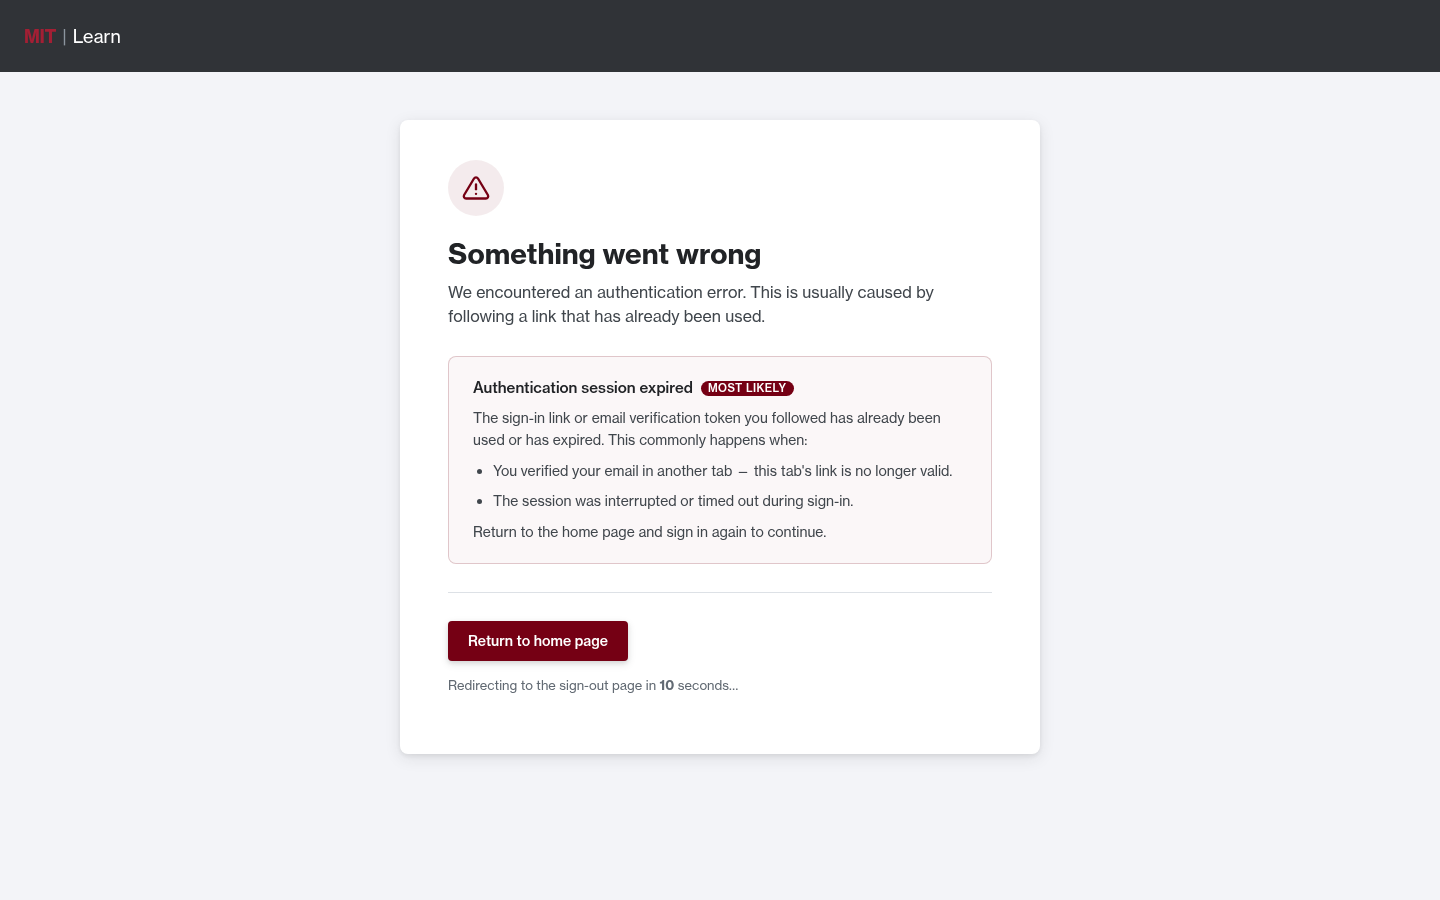
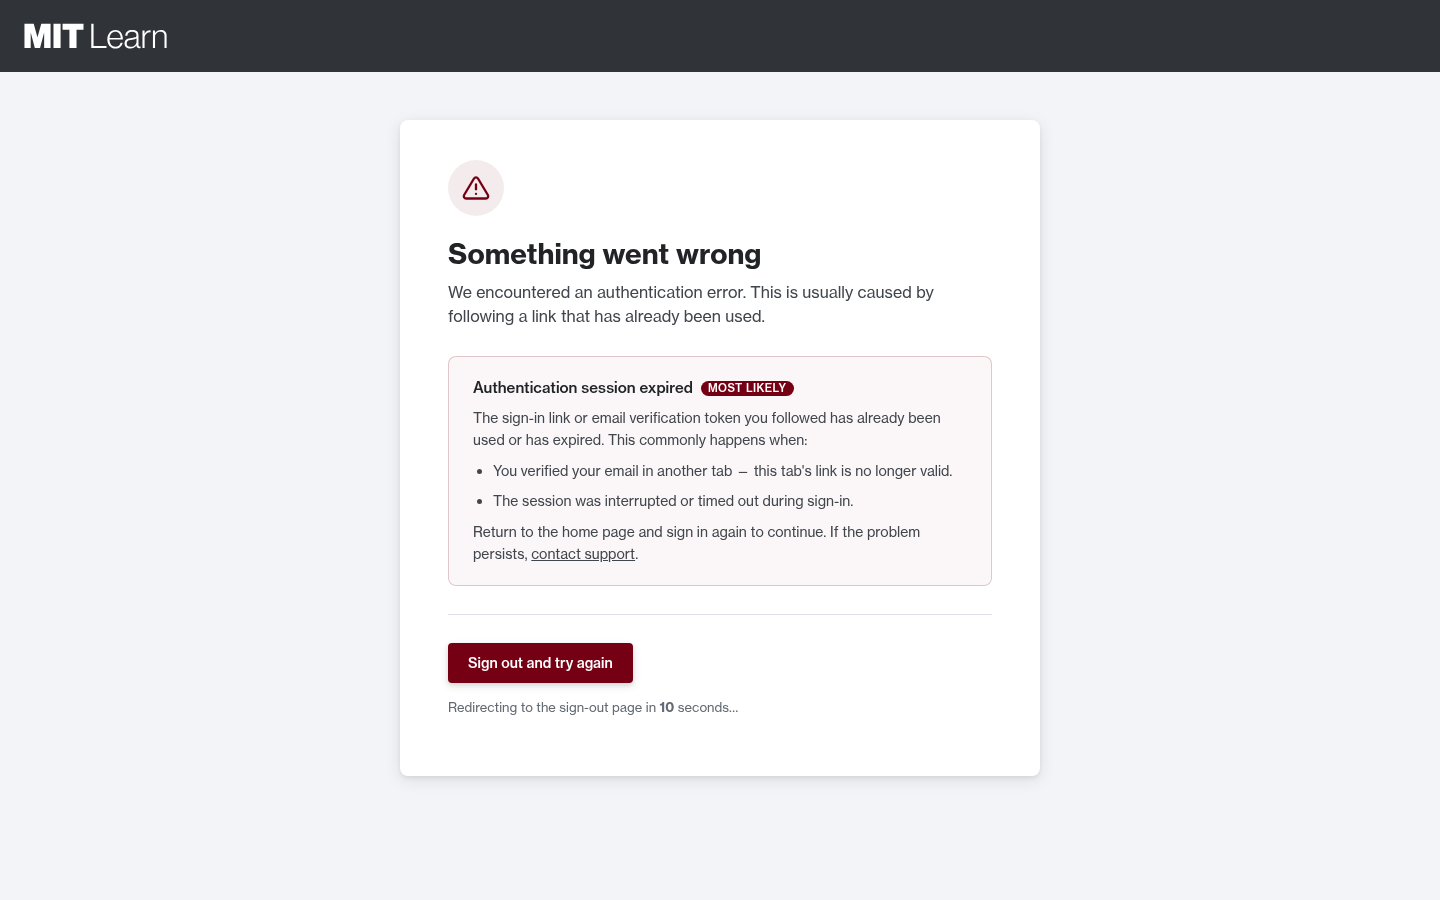
fix: address second round of PR review feedback
- Replace text wordmark with actual MIT Learn SVG logo (from
  mitodl/mit-learn frontends/main/public/images/mit-learn-logo.svg)
- Add 'contact support' link (support.learn.mit.edu) after auth
  scenario instructions
- Apply reviewer suggestion: split last header-scenario list item
  into 'Try a different browser' + 'contact us' link
- Fix button/countdown mismatch: auth scenario button now says
  'Sign out and try again' and points to /logout, matching the
  countdown redirect target; header scenario button remains
  'Return to home page' pointing to /

diff --git a/src/ol_infrastructure/infrastructure/aws/eks/error_pages/gateway_error.html b/src/ol_infrastructure/infrastructure/aws/eks/error_pages/gateway_error.html
@@ -69,28 +69,14 @@
         padding: 0 24px;
       }
 
-      /* Wordmark: "MIT" in bold red + "Learn" in regular white */
-      .nav-wordmark {
+      .nav-logo {
         display: flex;
-        align-items: baseline;
-        gap: 6px;
-        color: var(--color-white);
-        font-size: 1.125rem;   /* 18px */
-        line-height: 1;
-        user-select: none;
+        align-items: center;
+        line-height: 0;
       }
-      .nav-wordmark-mit {
-        font-weight: 700;
-        color: var(--color-red);
-        letter-spacing: -0.02em;
-      }
-      .nav-wordmark-pipe {
-        color: var(--color-silver-gray);
-        font-weight: 300;
-      }
-      .nav-wordmark-learn {
-        font-weight: 400;
-        color: var(--color-white);
+      .nav-logo svg {
+        height: 26px;
+        width: auto;
       }
 
       /* ── Page layout ────────────────────────────────────────────────────── */
@@ -259,10 +245,10 @@
   <body>
     <!-- ── Navigation bar ──────────────────────────────────────────────── -->
     <header class="nav" role="banner">
-      <a href="/" class="nav-wordmark" aria-label="MIT Learn — home">
-        <span class="nav-wordmark-mit">MIT</span>
-        <span class="nav-wordmark-pipe">|</span>
-        <span class="nav-wordmark-learn">Learn</span>
+      <a href="/" class="nav-logo" aria-label="MIT Learn — home">
+        <svg width="143" height="26" viewBox="0 0 143 26" fill="none" xmlns="http://www.w3.org/2000/svg" aria-hidden="true">
+          <path d="M0.462 25V0.689999H9.71L13.45 14.29H13.518L17.258 0.689999H26.574V25H20.148V9.768H20.08L16.034 25H10.832L6.786 9.768H6.718V25H0.462ZM29.4815 25V0.689999H36.5875V25H29.4815ZM38.5569 6.742V0.689999H59.5009V6.742H52.5309V25H45.4249V6.742H38.5569ZM67.2834 25V0.689999H69.5614V22.892H82.5154V25H67.2834ZM91.5167 25.442C88.9553 25.442 86.9493 24.592 85.4987 22.892C84.048 21.1693 83.3227 18.948 83.3227 16.228C83.3227 13.5533 84.0593 11.3547 85.5327 9.632C87.006 7.88667 88.944 7.014 91.3467 7.014C92.7067 7.014 93.8853 7.27467 94.8827 7.796C95.9027 8.31733 96.696 9.04267 97.2627 9.972C97.8293 10.9013 98.2373 11.9213 98.4867 13.032C98.7587 14.12 98.8947 15.31 98.8947 16.602H85.4987C85.544 18.6873 86.0767 20.3873 87.0967 21.702C88.1167 22.994 89.59 23.64 91.5167 23.64C94.1913 23.64 95.9027 22.3253 96.6507 19.696H98.6907C98.3053 21.464 97.4893 22.8693 96.2427 23.912C95.0187 24.932 93.4433 25.442 91.5167 25.442ZM85.5327 14.936H96.6847C96.6393 13.1 96.1633 11.6153 95.2567 10.482C94.3727 9.326 93.0693 8.748 91.3467 8.748C89.6467 8.748 88.298 9.31467 87.3007 10.448C86.326 11.5813 85.7367 13.0773 85.5327 14.936ZM106.266 25.408C104.566 25.408 103.184 24.9887 102.118 24.15C101.053 23.3113 100.52 22.0987 100.52 20.512C100.52 19.5147 100.69 18.676 101.03 17.996C101.393 17.2933 101.937 16.7493 102.662 16.364C103.41 15.9787 104.158 15.6953 104.906 15.514C105.677 15.31 106.629 15.14 107.762 15.004C109.666 14.7773 110.924 14.5393 111.536 14.29C112.171 14.018 112.488 13.4627 112.488 12.624V12.284C112.488 9.92667 111.083 8.748 108.272 8.748C105.144 8.748 103.501 10.0513 103.342 12.658H101.268C101.382 10.9127 102.028 9.54133 103.206 8.544C104.385 7.54667 106.074 7.048 108.272 7.048C112.42 7.048 114.494 8.86133 114.494 12.488V22.042C114.494 23.0167 114.88 23.5267 115.65 23.572C115.764 23.572 116.024 23.5267 116.432 23.436H116.534V24.966C116.126 25.1473 115.65 25.238 115.106 25.238C113.474 25.238 112.613 24.4107 112.522 22.756V22.382H112.42C110.992 24.3993 108.941 25.408 106.266 25.408ZM106.64 23.708C108.454 23.708 109.882 23.198 110.924 22.178C111.99 21.1353 112.522 19.9567 112.522 18.642V15.48C111.661 15.956 110.142 16.3413 107.966 16.636C107.241 16.7267 106.663 16.8173 106.232 16.908C105.824 16.9987 105.36 17.1347 104.838 17.316C104.34 17.4973 103.954 17.7127 103.682 17.962C103.433 18.2113 103.206 18.5513 103.002 18.982C102.821 19.4127 102.73 19.9227 102.73 20.512C102.73 22.6427 104.034 23.708 106.64 23.708ZM118.473 25V7.422H120.581V10.686H120.649C121.85 8.41933 123.641 7.286 126.021 7.286C126.225 7.286 126.418 7.30867 126.599 7.354V9.428C125.216 9.20133 123.97 9.48467 122.859 10.278C121.34 11.4113 120.581 12.9867 120.581 15.004V25H118.473ZM128.932 25V7.422H131.04V10.108H131.108C132.491 8.068 134.451 7.048 136.99 7.048C138.667 7.048 140.016 7.53533 141.036 8.51C142.079 9.462 142.6 10.7993 142.6 12.522V25H140.492V12.726C140.492 10.142 139.155 8.85 136.48 8.85C134.961 8.85 133.669 9.326 132.604 10.278C131.561 11.23 131.04 12.42 131.04 13.848V25H128.932Z" fill="white"/>
+        </svg>
       </a>
     </header>
 
@@ -305,6 +291,7 @@
             </ul>
             <p style="margin:8px 0 0">
               Return to the home page and sign in again to continue.
+              If the problem persists, <a href="https://support.learn.mit.edu/hc/en-us/requests/new" style="text-decoration:underline">contact support</a>.
             </p>
           </div>
         </div>
@@ -325,7 +312,8 @@
               <li>Clear cookies for this site, then reload the page.</li>
               <li>Open a new private or incognito browser window and try again.</li>
               <li>Sign out of all accounts on this site, clear your browser cookies for this domain, then sign back in.</li>
-              <li>If the problem persists, try a different browser or device.</li>
+              <li>Try a different browser or device.</li>
+              <li>If the problem persists, <a href="https://support.learn.mit.edu/hc/en-us/requests/new" style="text-decoration:underline">contact us</a>.</li>
             </ul>
           </div>
         </div>
@@ -418,14 +406,22 @@
         /* ── Countdown + redirect (auth scenario only) ───────────────────── */
         var homeLink = document.getElementById("home-link");
         var homeUrl = window.location.origin + "/";
+        var logoutUrl = window.location.origin + "/logout";
+
+        /* Default: button goes to home page (header/cookie scenario) */
         if (homeLink) { homeLink.href = homeUrl; }
 
         if (scenario === "auth") {
+          /* Auth scenario: button and auto-redirect both go to /logout */
+          if (homeLink) {
+            homeLink.href = logoutUrl;
+            homeLink.textContent = "Sign out and try again";
+          }
+
           var REDIRECT_SECONDS = 10;
           var remaining = REDIRECT_SECONDS;
           var countdownEl = document.getElementById("countdown");
           var noticeEl    = document.getElementById("redirect-notice");
-          var logoutUrl   = window.location.origin + "/logout";
 
           function tick() {
             remaining -= 1;